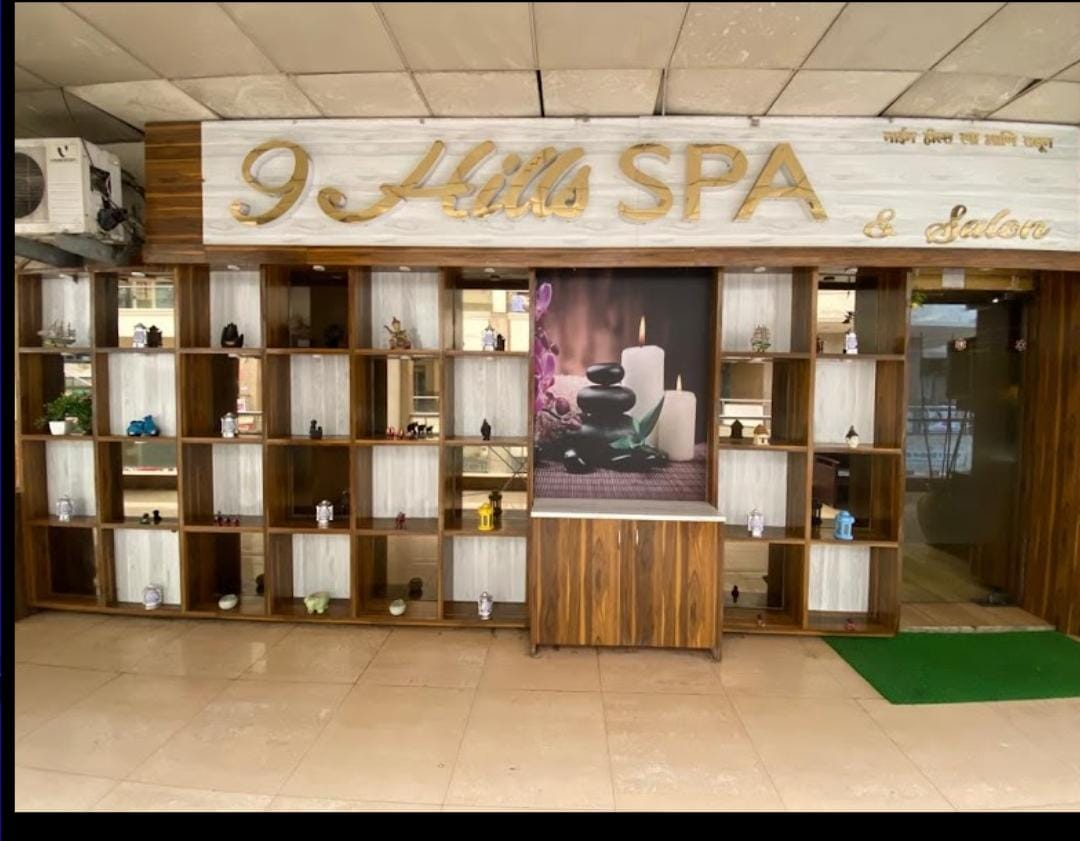
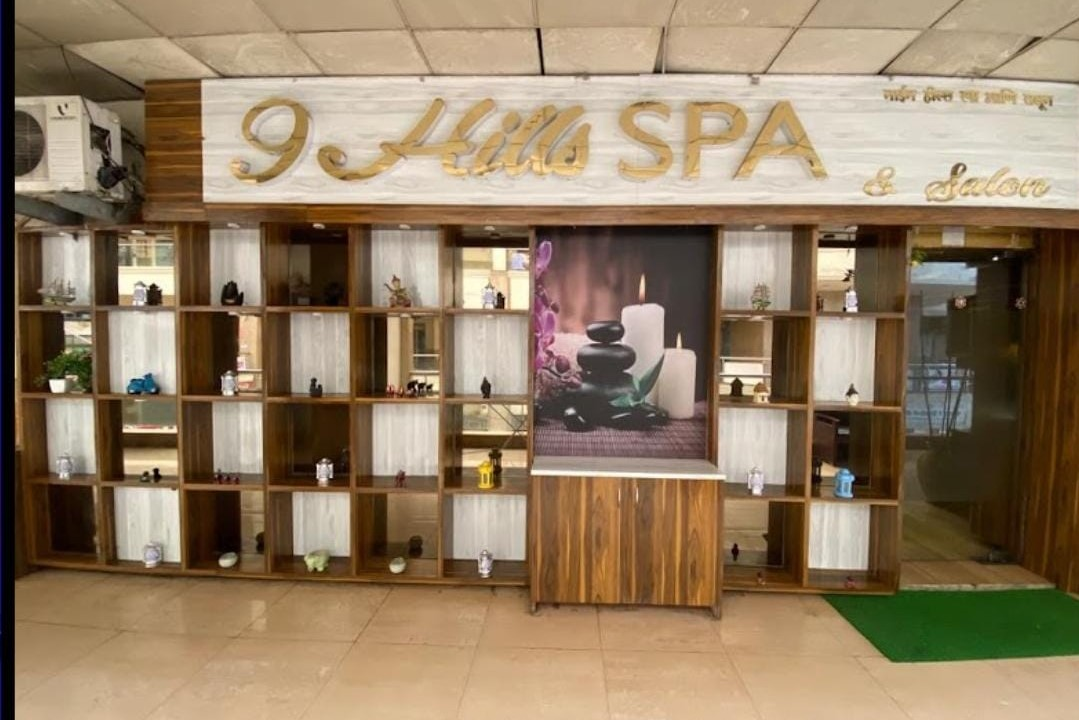
changed the ration of images

diff --git a/index.html b/index.html
@@ -253,7 +253,7 @@
             <div class="featured  mb-3">
                 <div class="featWrap py-3 px-1 d-flex">
                     <div class="featItem border me-3">
-                        <img src="./assets/images/spaImg.jpg" alt="image"
+                        <img src="./assets/images/9hillsimg.jpeg" alt="image"
                             class="featImg img-fluid mb-2">
                         <div class="featData">
                             <div class="featNameWrap d-flex justify-content-between">
@@ -282,7 +282,7 @@
                         </div>
                     </div>
                     <div class="featItem border me-3">
-                        <img src="./assets/images/spaImg.jpg" alt="image"
+                        <img src="./assets/images/yetiimg.jpg" alt="image"
                             class="featImg img-fluid mb-2">
                         <div class="featData">
                             <div class="featNameWrap d-flex justify-content-between">
@@ -299,7 +299,7 @@
                         </div>
                     </div>
                     <div class="featItem border me-3">
-                        <img src="./assets/images/spaImg.jpg" alt="image"
+                        <img src="./assets/images/anandaimg.jpg" alt="image"
                             class="featImg img-fluid mb-2">
                         <div class="featData">
                             <div class="featNameWrap d-flex justify-content-between">

diff --git a/css/style.css b/css/style.css
@@ -400,7 +400,6 @@ hr{
 
 .listImg{
     height: 100%;
-    width: 100%;
 }
 
 .listData{
